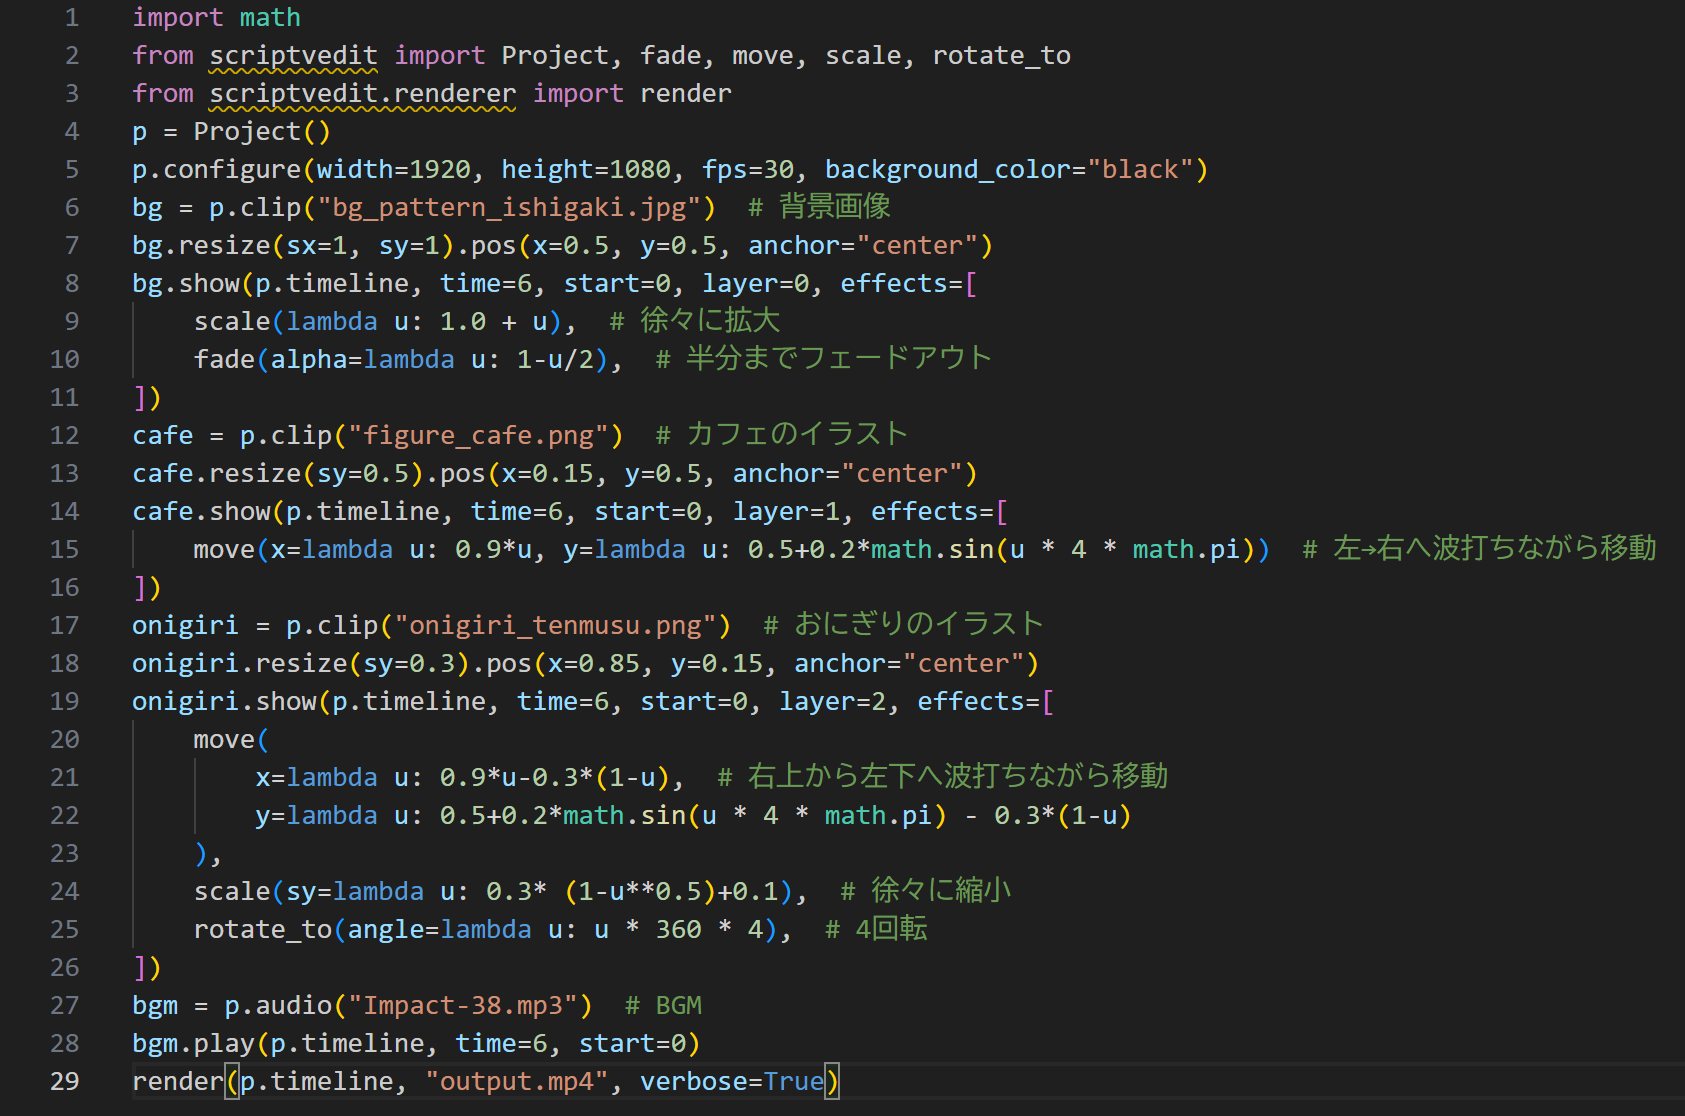
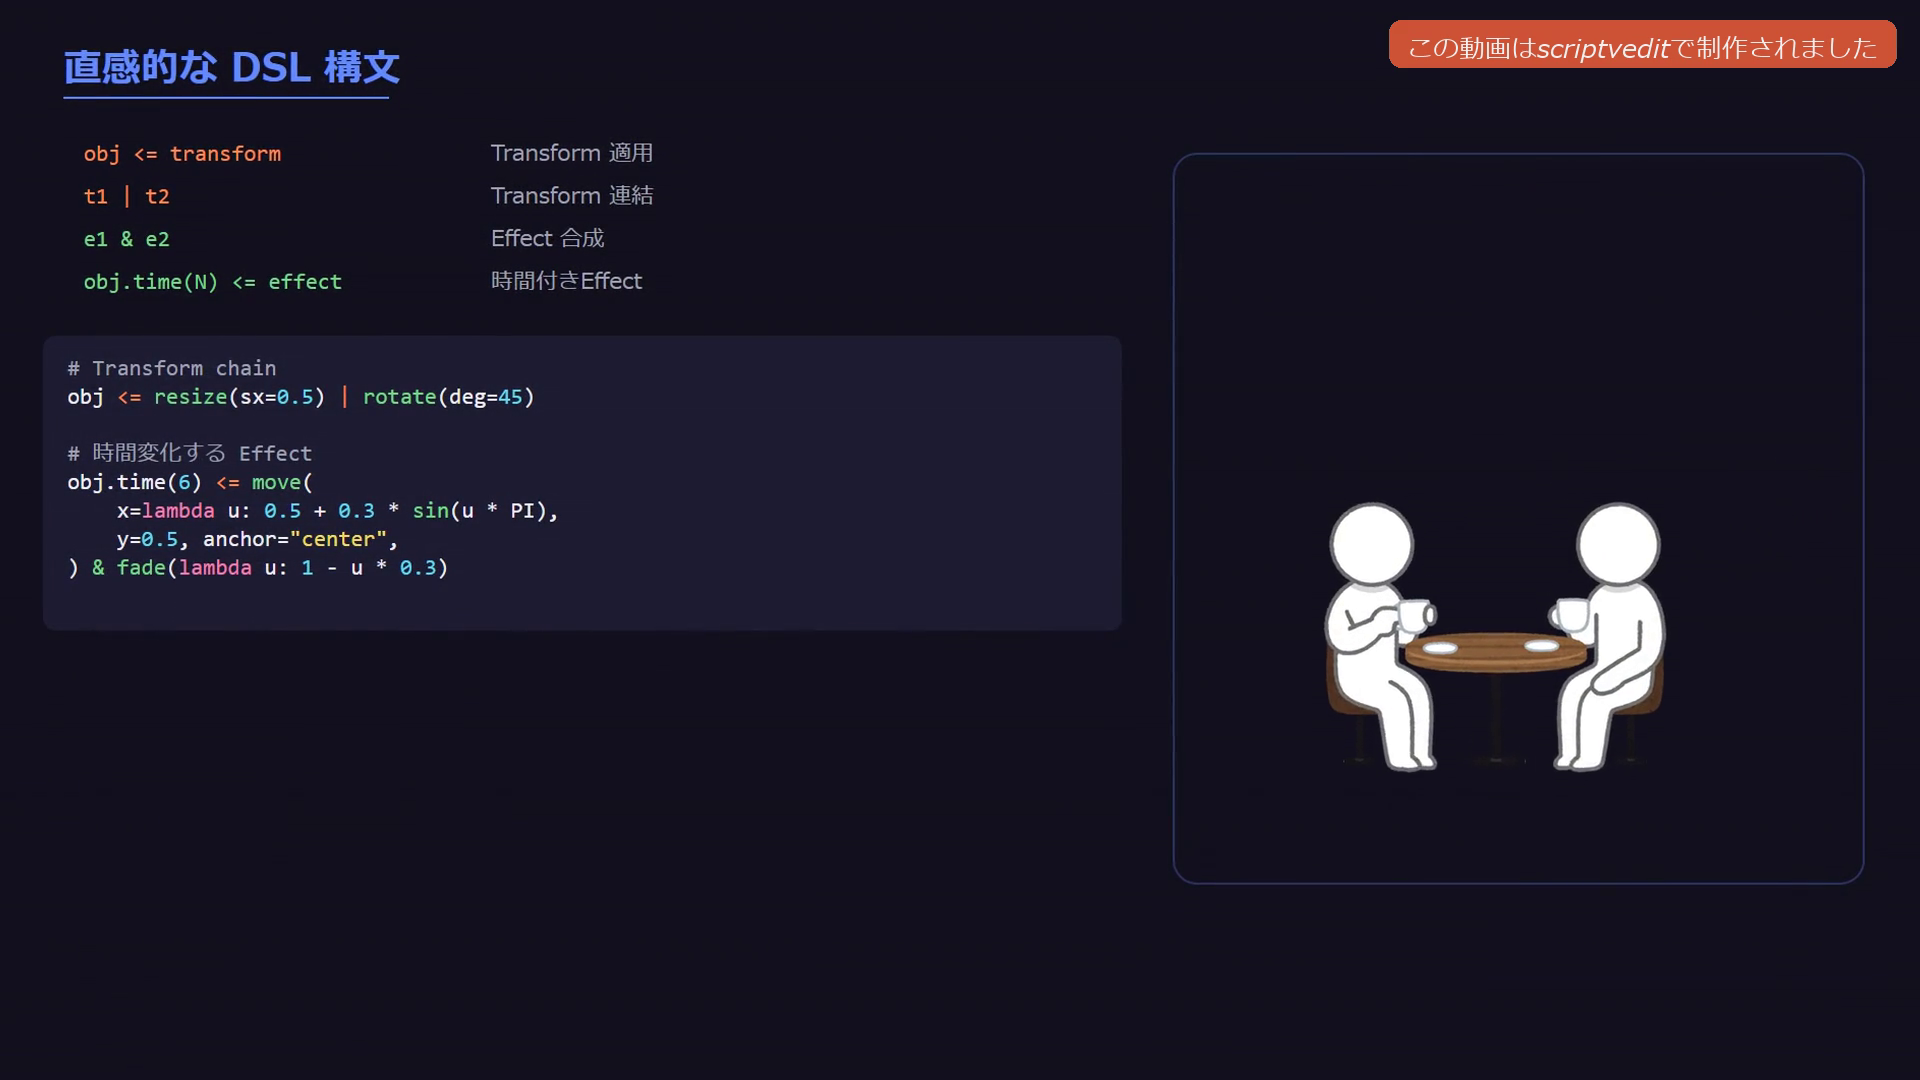
scriptveditセクション更新: 説明文・技術リスト・スクリーンショット・動画リンク

diff --git a/index.html b/index.html
@@ -619,7 +619,7 @@
               <h3 class="h5 mb-0 card-title">scriptvedit</h3>
               <div class="d-flex gap-2 flex-wrap">
                 <a class="btn btn-outline-info btn-sm" href="https://github.com/kojima8924/scriptvedit" target="_blank" rel="noopener noreferrer">Repo</a>
-                <a class="btn btn-outline-info btn-sm btn-video" data-nico="sm45922487" href="https://www.nicovideo.jp/watch/sm45922487" target="_blank" rel="noopener noreferrer">Video（音量注意）</a>
+                <a class="btn btn-outline-info btn-sm btn-video" data-nico="sm45955598" href="https://www.nicovideo.jp/watch/sm45955598" target="_blank" rel="noopener noreferrer">Video（音量注意）</a>
               </div>
             </div>
 
@@ -637,18 +637,19 @@
             </div>
 
             <p class="text-muted mt-2 mb-2">
-              動画編集をCLIでDSL風のPythonで実行するためのPythonライブラリ。<br>
-              画像/動画/音声の読み込み、編集、エフェクト適用、テキスト描画などの基本的な編集機能を備えている。<br>
-              エフェクトの引数に関数を書くことで，サインカーブなどの時間変化する効果を簡単に実装できる。<br>
-              FFmpegをバックエンドに使用している。
+              Pythonで動画編集を行うDSLライブラリ。<br>
+              演算子オーバーロードによるDSL記法で、Transform・Effectの適用を直感的に記述できる。<br>
+              27種のイージング関数、キーフレーム補間、字幕テンプレート、定数畳み込み最適化などを搭載。<br>
+              FFmpegの式システムにコンパイルし、フレーム単位のパラメータ変化をリアルタイム評価する。
             </p>
 
             <div class="text-muted small">
               <strong>技術</strong>
               <ul class="tech-list">
-                <li>CLI動画編集ライブラリ</li>
-                <li>時間変化するパラメータによるエフェクト関数</li>
-                <li>FFmpegバックエンド</li>
+                <li>演算子オーバーロードDSL（|, &amp;, &lt;=）</li>
+                <li>AST→FFmpeg式コンパイラ + 定数畳み込み最適化</li>
+                <li>27種イージング / キーフレーム補間 / シーケンス制御</li>
+                <li>Playwright経由 字幕・吹き出しWebテンプレート</li>
               </ul>
             </div>
           </article>
